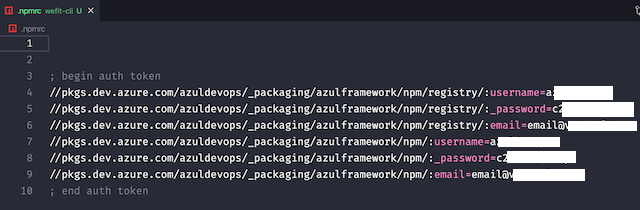
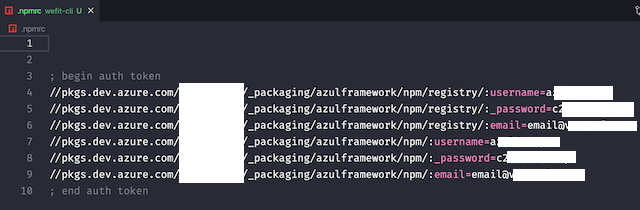
chore: bump cli version / docs: CHANGELOG update

Changed region(s): [[0.2812, 0.3714, 0.4062, 0.8857]]

diff --git a/CHANGELOG.md b/CHANGELOG.md
@@ -1,5 +1,18 @@
 # wefit-cli
 
+## 1.5.0
+
+### Minor Changes
+
+ #### Feature
+
+  - Token de acesso do Figma passa a ser armazenado localmente para futuras execuções do comando `we figma-generate`
+  - Comando `we -v` passa a funcionar com a versão presente no `package.json`
+
+  #### Docs
+
+  - Alterado imagens do comando de criação do arquivo `.npmrc`
+
 ## 1.4.0
 
 ### Minor Changes
